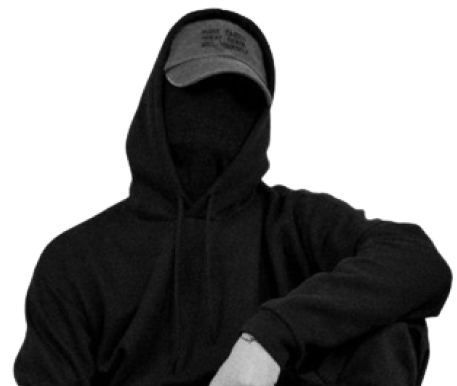
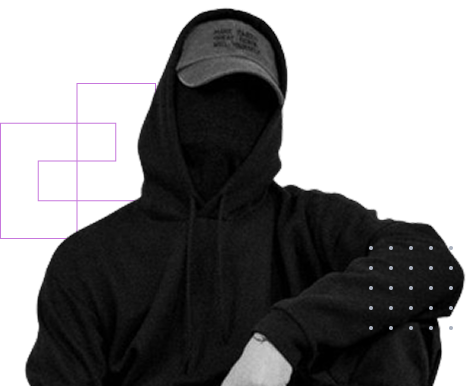
feat: update images and optimize cursor interactions

diff --git a/src/layout/Portfolio.tsx b/src/layout/Portfolio.tsx
@@ -59,7 +59,7 @@ export default function PortfolioLayout() {
         opacity: 1,
         y: 0,
         transition: {
-          delay: 0.35 * index,
+          delay: (0.15 * index) / 10,
         },
       },
     };
@@ -100,7 +100,7 @@ export default function PortfolioLayout() {
     <Fragment>
       <CustomCursor />
       <Disclosure>
-        {({ open }) => (
+        {({ open, close }) => (
           <Fragment>
             <SlideIn>
               <div className="fixed left-10 top-0 hidden xl:flex flex-col items-center space-y-4">
@@ -180,14 +180,18 @@ export default function PortfolioLayout() {
                   <div className="lg:flex hidden items-center gap-6">
                     {navigations.map(({ path, title }, index) => {
                       return (
-                        <motion.div
+                        <NavLink
                           key={`${title}-${index}`}
-                          variants={{ ...listItem(index) }}
-                          initial="hidden"
-                          animate="visible"
+                          to={path}
+                          className="group"
+                          onClick={() => close()}
                         >
-                          <NavLink to={path} className="group">
-                            {({ isActive }) => (
+                          {({ isActive }) => (
+                            <motion.div
+                              variants={{ ...listItem(index) }}
+                              initial="hidden"
+                              animate="visible"
+                            >
                               <p
                                 className={classNames(
                                   "font-fira-code text-lg group-hover:text-white",
@@ -197,9 +201,9 @@ export default function PortfolioLayout() {
                                 <span className="text-port-primary">#</span>
                                 {splitText(title)}
                               </p>
-                            )}
-                          </NavLink>
-                        </motion.div>
+                            </motion.div>
+                          )}
+                        </NavLink>
                       );
                     })}
                   </div>
@@ -240,14 +244,18 @@ export default function PortfolioLayout() {
                     const localIndex = index + navigations.length;
 
                     return (
-                      <motion.div
+                      <NavLink
+                        to={path}
                         key={`${title}-${localIndex}`}
-                        variants={{ ...listItem(localIndex) }}
-                        initial="hidden"
-                        animate="visible"
+                        className="group"
+                        onClick={() => close()}
                       >
-                        <NavLink to={path} className="group">
-                          {({ isActive }) => (
+                        {({ isActive }) => (
+                          <motion.div
+                            variants={{ ...listItem(localIndex) }}
+                            initial="hidden"
+                            animate="visible"
+                          >
                             <p
                               className={classNames(
                                 "font-medium font-fira-code text-4xl group-hover:text-white",
@@ -257,90 +265,94 @@ export default function PortfolioLayout() {
                               <span className="text-port-primary">#</span>
                               {splitText(title)}
                             </p>
-                          )}
-                        </NavLink>
-                      </motion.div>
+                          </motion.div>
+                        )}
+                      </NavLink>
                     );
                   })}
                 </div>
               </>
             </Disclosure.Panel>
+
+            <motion.main>
+              <motion.div
+                variants={{
+                  hidden: { opacity: 0, y: 30 },
+                  visible: {
+                    opacity: 1,
+                    y: 0,
+                    transition: {
+                      duration: 0.6,
+                      ease: [0.25, 0.46, 0.45, 0.94],
+                    },
+                  },
+                }}
+              >
+                <div className="max-w-7xl mx-auto px-4 2xl:px-0">
+                  <Outlet context={{ close }} />
+                </div>
+                <motion.footer
+                  initial={{ opacity: 0 }}
+                  whileInView={{ opacity: 1 }}
+                  viewport={{ once: true }}
+                  transition={{ duration: 1 }}
+                  className="border-t-[3px] border-port-gray"
+                >
+                  <div className="max-w-7xl mx-auto px-4 xl:px-0">
+                    <div className="flex items-center justify-between py-5">
+                      <>
+                        <div className="space-y-6">
+                          <h3 className="text-2xl font-fira-code font-medium text-white">Media</h3>
+                          <div className="flex items-center space-x-4">
+                            <Link
+                              to="https://github.com/springboot20"
+                              className="inline-block shrink-0"
+                            >
+                              <span className="sr-only">Github</span>
+                              <svg
+                                xmlns="http://www.w3.org/2000/svg"
+                                className="h-10"
+                                viewBox="0 0 496 512"
+                              >
+                                <path
+                                  d="M165.9 397.4c0 2-2.3 3.6-5.2 3.6-3.3.3-5.6-1.3-5.6-3.6 0-2 2.3-3.6 5.2-3.6 3-.3 5.6 1.3 5.6 3.6zm-31.1-4.5c-.7 2 1.3 4.3 4.3 4.9 2.6 1 5.6 0 6.2-2s-1.3-4.3-4.3-5.2c-2.6-.7-5.5.3-6.2 2.3zm44.2-1.7c-2.9.7-4.9 2.6-4.6 4.9.3 2 2.9 3.3 5.9 2.6 2.9-.7 4.9-2.6 4.6-4.6-.3-1.9-3-3.2-5.9-2.9zM244.8 8C106.1 8 0 113.3 0 252c0 110.9 69.8 205.8 169.5 239.2 12.8 2.3 17.3-5.6 17.3-12.1 0-6.2-.3-40.4-.3-61.4 0 0-70 15-84.7-29.8 0 0-11.4-29.1-27.8-36.6 0 0-22.9-15.7 1.6-15.4 0 0 24.9 2 38.6 25.8 21.9 38.6 58.6 27.5 72.9 20.9 2.3-16 8.8-27.1 16-33.7-55.9-6.2-112.3-14.3-112.3-110.5 0-27.5 7.6-41.3 23.6-58.9-2.6-6.5-11.1-33.3 2.6-67.9 20.9-6.5 69 27 69 27 20-5.6 41.5-8.5 62.8-8.5s42.8 2.9 62.8 8.5c0 0 48.1-33.6 69-27 13.7 34.7 5.2 61.4 2.6 67.9 16 17.7 25.8 31.5 25.8 58.9 0 96.5-58.9 104.2-114.8 110.5 9.2 7.9 17 22.9 17 46.4 0 33.7-.3 75.4-.3 83.6 0 6.5 4.6 14.4 17.3 12.1C428.2 457.8 496 362.9 496 252 496 113.3 383.5 8 244.8 8zM97.2 352.9c-1.3 1-1 3.3.7 5.2 1.6 1.6 3.9 2.3 5.2 1 1.3-1 1-3.3-.7-5.2-1.6-1.6-3.9-2.3-5.2-1zm-10.8-8.1c-.7 1.3.3 2.9 2.3 3.9 1.6 1 3.6.7 4.3-.7.7-1.3-.3-2.9-2.3-3.9-2-.6-3.6-.3-4.3.7zm32.4 35.6c-1.6 1.3-1 4.3 1.3 6.2 2.3 2.3 5.2 2.6 6.5 1 1.3-1.3.7-4.3-1.3-6.2-2.2-2.3-5.2-2.6-6.5-1zm-11.4-14.7c-1.6 1-1.6 3.6 0 5.9 1.6 2.3 4.3 3.3 5.6 2.3 1.6-1.3 1.6-3.9 0-6.2-1.4-2.3-4-3.3-5.6-2z"
+                                  fill="#ABB2BF"
+                                />
+                              </svg>
+                            </Link>
+                            <Link to="" className="inline-block shrink-0">
+                              <span className="sr-only">Linkedin</span>
+                              <svg
+                                xmlns="http://www.w3.org/2000/svg"
+                                className="h-10"
+                                viewBox="0 0 448 512"
+                              >
+                                <path
+                                  d="M416 32H31.9C14.3 32 0 46.5 0 64.3v383.4C0 465.5 14.3 480 31.9 480H416c17.6 0 32-14.5 32-32.3V64.3c0-17.8-14.4-32.3-32-32.3zM135.4 416H69V202.2h66.5V416zm-33.2-243c-21.3 0-38.5-17.3-38.5-38.5S80.9 96 102.2 96c21.2 0 38.5 17.3 38.5 38.5 0 21.3-17.2 38.5-38.5 38.5zm282.1 243h-66.4V312c0-24.8-.5-56.7-34.5-56.7-34.6 0-39.9 27-39.9 54.9V416h-66.4V202.2h63.7v29.2h.9c8.9-16.8 30.6-34.5 62.9-34.5 67.2 0 79.7 44.3 79.7 101.9V416z"
+                                  fill="#ABB2BF"
+                                />
+                              </svg>
+                            </Link>
+                            <Link to=""></Link>
+                          </div>
+                        </div>
+                      </>
+                    </div>
+                    <div className="text-center py-5">
+                      <p className="text-xl font-normal font-fira-code text-port-gray">
+                        <small className="inline-block mr-2">
+                          <FontAwesomeIcon icon={faCopyright} className="h-4 text-port-gray" />
+                        </small>
+                        Copyright {new Date(Date.now()).getFullYear()}. Made by Abbas Opeyemi
+                      </p>
+                    </div>
+                  </div>
+                </motion.footer>
+              </motion.div>
+            </motion.main>
           </Fragment>
         )}
       </Disclosure>
-      <motion.main>
-        <motion.div
-          variants={{
-            hidden: { opacity: 0, y: 30 },
-            visible: {
-              opacity: 1,
-              y: 0,
-              transition: {
-                duration: 0.6,
-                ease: [0.25, 0.46, 0.45, 0.94],
-              },
-            },
-          }}
-        >
-          <div className="max-w-7xl mx-auto px-4 2xl:px-0">
-            <Outlet />
-          </div>
-          <motion.footer
-            initial={{ opacity: 0 }}
-            whileInView={{ opacity: 1 }}
-            viewport={{ once: true }}
-            transition={{ duration: 1 }}
-            className="border-t-[3px] border-port-gray"
-          >
-            <div className="max-w-7xl mx-auto px-4 xl:px-0">
-              <div className="flex items-center justify-between py-5">
-                <>
-                  <div className="space-y-6">
-                    <h3 className="text-2xl font-fira-code font-medium text-white">Media</h3>
-                    <div className="flex items-center space-x-4">
-                      <Link to="https://github.com/springboot20" className="inline-block shrink-0">
-                        <span className="sr-only">Github</span>
-                        <svg
-                          xmlns="http://www.w3.org/2000/svg"
-                          className="h-10"
-                          viewBox="0 0 496 512"
-                        >
-                          <path
-                            d="M165.9 397.4c0 2-2.3 3.6-5.2 3.6-3.3.3-5.6-1.3-5.6-3.6 0-2 2.3-3.6 5.2-3.6 3-.3 5.6 1.3 5.6 3.6zm-31.1-4.5c-.7 2 1.3 4.3 4.3 4.9 2.6 1 5.6 0 6.2-2s-1.3-4.3-4.3-5.2c-2.6-.7-5.5.3-6.2 2.3zm44.2-1.7c-2.9.7-4.9 2.6-4.6 4.9.3 2 2.9 3.3 5.9 2.6 2.9-.7 4.9-2.6 4.6-4.6-.3-1.9-3-3.2-5.9-2.9zM244.8 8C106.1 8 0 113.3 0 252c0 110.9 69.8 205.8 169.5 239.2 12.8 2.3 17.3-5.6 17.3-12.1 0-6.2-.3-40.4-.3-61.4 0 0-70 15-84.7-29.8 0 0-11.4-29.1-27.8-36.6 0 0-22.9-15.7 1.6-15.4 0 0 24.9 2 38.6 25.8 21.9 38.6 58.6 27.5 72.9 20.9 2.3-16 8.8-27.1 16-33.7-55.9-6.2-112.3-14.3-112.3-110.5 0-27.5 7.6-41.3 23.6-58.9-2.6-6.5-11.1-33.3 2.6-67.9 20.9-6.5 69 27 69 27 20-5.6 41.5-8.5 62.8-8.5s42.8 2.9 62.8 8.5c0 0 48.1-33.6 69-27 13.7 34.7 5.2 61.4 2.6 67.9 16 17.7 25.8 31.5 25.8 58.9 0 96.5-58.9 104.2-114.8 110.5 9.2 7.9 17 22.9 17 46.4 0 33.7-.3 75.4-.3 83.6 0 6.5 4.6 14.4 17.3 12.1C428.2 457.8 496 362.9 496 252 496 113.3 383.5 8 244.8 8zM97.2 352.9c-1.3 1-1 3.3.7 5.2 1.6 1.6 3.9 2.3 5.2 1 1.3-1 1-3.3-.7-5.2-1.6-1.6-3.9-2.3-5.2-1zm-10.8-8.1c-.7 1.3.3 2.9 2.3 3.9 1.6 1 3.6.7 4.3-.7.7-1.3-.3-2.9-2.3-3.9-2-.6-3.6-.3-4.3.7zm32.4 35.6c-1.6 1.3-1 4.3 1.3 6.2 2.3 2.3 5.2 2.6 6.5 1 1.3-1.3.7-4.3-1.3-6.2-2.2-2.3-5.2-2.6-6.5-1zm-11.4-14.7c-1.6 1-1.6 3.6 0 5.9 1.6 2.3 4.3 3.3 5.6 2.3 1.6-1.3 1.6-3.9 0-6.2-1.4-2.3-4-3.3-5.6-2z"
-                            fill="#ABB2BF"
-                          />
-                        </svg>
-                      </Link>
-                      <Link to="" className="inline-block shrink-0">
-                        <span className="sr-only">Linkedin</span>
-                        <svg
-                          xmlns="http://www.w3.org/2000/svg"
-                          className="h-10"
-                          viewBox="0 0 448 512"
-                        >
-                          <path
-                            d="M416 32H31.9C14.3 32 0 46.5 0 64.3v383.4C0 465.5 14.3 480 31.9 480H416c17.6 0 32-14.5 32-32.3V64.3c0-17.8-14.4-32.3-32-32.3zM135.4 416H69V202.2h66.5V416zm-33.2-243c-21.3 0-38.5-17.3-38.5-38.5S80.9 96 102.2 96c21.2 0 38.5 17.3 38.5 38.5 0 21.3-17.2 38.5-38.5 38.5zm282.1 243h-66.4V312c0-24.8-.5-56.7-34.5-56.7-34.6 0-39.9 27-39.9 54.9V416h-66.4V202.2h63.7v29.2h.9c8.9-16.8 30.6-34.5 62.9-34.5 67.2 0 79.7 44.3 79.7 101.9V416z"
-                            fill="#ABB2BF"
-                          />
-                        </svg>
-                      </Link>
-                      <Link to=""></Link>
-                    </div>
-                  </div>
-                </>
-              </div>
-              <div className="text-center py-5">
-                <p className="text-xl font-normal font-fira-code text-port-gray">
-                  <small className="inline-block mr-2">
-                    <FontAwesomeIcon icon={faCopyright} className="h-4 text-port-gray" />
-                  </small>
-                  Copyright {new Date(Date.now()).getFullYear()}. Made by Abbas Opeyemi
-                </p>
-              </div>
-            </div>
-          </motion.footer>
-        </motion.div>
-      </motion.main>
     </Fragment>
   );
 }

diff --git a/src/pages/home/home.tsx b/src/pages/home/home.tsx
@@ -1,15 +1,12 @@
 import { Link } from "react-router-dom";
 import DotPattern from "../../assets/images/dots-pattern.png";
-import OverlayBoxes from "../../assets/images/overlay-boxes.png";
 import HeroImage from "../../assets/images/hero-image.png";
 import ProjectDemoImage from "../../assets/images/project-demo-image.jpg";
 import { FontAwesomeIcon } from "@fortawesome/react-fontawesome";
 import { faArrowRight } from "@fortawesome/free-solid-svg-icons";
-import DotOnePattern from "../../assets/images/dot-pattern-one.svg";
-import DotTwoPattern from "../../assets/images/dot-pattern-two.svg";
-import Box from "../../assets/images/box.svg";
 import { Fragment } from "react";
 import AboutImage from "../../assets/images/about-Image.png";
+import SkillCoverImage from "../../assets/images/skill-cover-image.png";
 import { SlideIn } from "../../components/slide-in";
 import { motion } from "framer-motion";
 import { SplittedAnimatedText } from "../../components/splitted-text/splitted-text";
@@ -137,28 +134,6 @@ const HeroSection = () => {
                   opacity: 1,
                   scale: 1,
                   transition: {
-                    delay: 0.9,
-                  },
-                },
-              }}
-              initial="hidden"
-              whileInView="visible"
-              viewport={{ once: true, amount: 0.5 }}
-              src={OverlayBoxes}
-              className="h-44 absolute top-8"
-            />
-
-            <motion.img
-              loading="lazy"
-              variants={{
-                hidden: {
-                  opacity: 0,
-                  scale: 0.75,
-                },
-                visible: {
-                  opacity: 1,
-                  scale: 1,
-                  transition: {
                     delay: 1.5,
                   },
                 },
@@ -167,7 +142,7 @@ const HeroSection = () => {
               whileInView="visible"
               viewport={{ once: true, amount: 0.5 }}
               src={DotPattern}
-              className="h-16 absolute z-10 left-2/3 bottom-7 lg:bottom-1/2"
+              className="h-20 absolute z-10 right-5 top-10"
             />
 
             <div className="relative">
@@ -330,27 +305,8 @@ const SkillSection = () => {
         <div className="flex flex-col lg:flex-row lg:items-start gap-9">
           <div className="shrink-0 relative h-[25rem] flex-grow max-w-lg">
             {/* dot one pattern start */}
-            <img src={DotOnePattern} className="h-20 md:h-28 absolute top-8" />
+            <img src={SkillCoverImage} className="h-full w-full object-cover" />
             {/* dot one pattern end */}
-
-            {/* box one start */}
-            <img src={Box} className="h-32 absolute right-0 md:right-8 top-0" />
-            {/* box one end */}
-
-            {/* overlay boxes start */}
-            <img src={OverlayBoxes} className="h-40 md:h-44 absolute bottom-10" />
-            {/* overlay boxes ends */}
-
-            {/* dot two pattern start */}
-            <img
-              src={DotTwoPattern}
-              className="h-20 absolute bottom-32 md:bottom-28 right-32 md:right-56 lg:right-44"
-            />
-            {/* dot two pattern end */}
-
-            {/* box two start */}
-            <img src={Box} className="absolute bottom-0 md:bottom-16 right-0 md:right-10" />
-            {/* box two end */}
           </div>
 
           <div className="grid grid-cols-2 xl:grid-cols-3 flex-1 gap-2">
@@ -447,9 +403,6 @@ const AboutSection = () => {
             </Link>
           </div>
           <div className="relative oveflow-hidden place-self-end">
-            <img src={DotPattern} className="h-20 absolute z-10 left-3 top-10" />
-            <img src={DotPattern} className="h-20 absolute z-10 left-2/3 bottom-7 lg:bottom-24" />
-
             <div className="w-full flex items-center justify-center h-[30rem]">
               <img src={AboutImage} alt="about image" className="h-full w-[20rem]" />
             </div>

diff --git a/src/components/mirror-cursor/mirror-cursor.tsx b/src/components/mirror-cursor/mirror-cursor.tsx
@@ -36,7 +36,7 @@ const CustomCursor = () => {
     const handleMouseEnter = () => setIsHovered(true);
     const handleMouseLeave = () => setIsHovered(false);
 
-    const hoverables = document.querySelectorAll("a, button, .cursor-hover, img, svg");
+    const hoverables = document.querySelectorAll("a, button, .cursor-hover, img, svg, a > div");
 
     hoverables.forEach((el) => {
       el.addEventListener("mouseenter", handleMouseEnter);

diff --git a/src/index.css b/src/index.css
@@ -52,9 +52,9 @@
 }
 
 @layer base {
-  * {
+  /* * {
     @apply cursor-none;
-  }
+  } */
   body {
     @apply bg-port-bg;
   }
